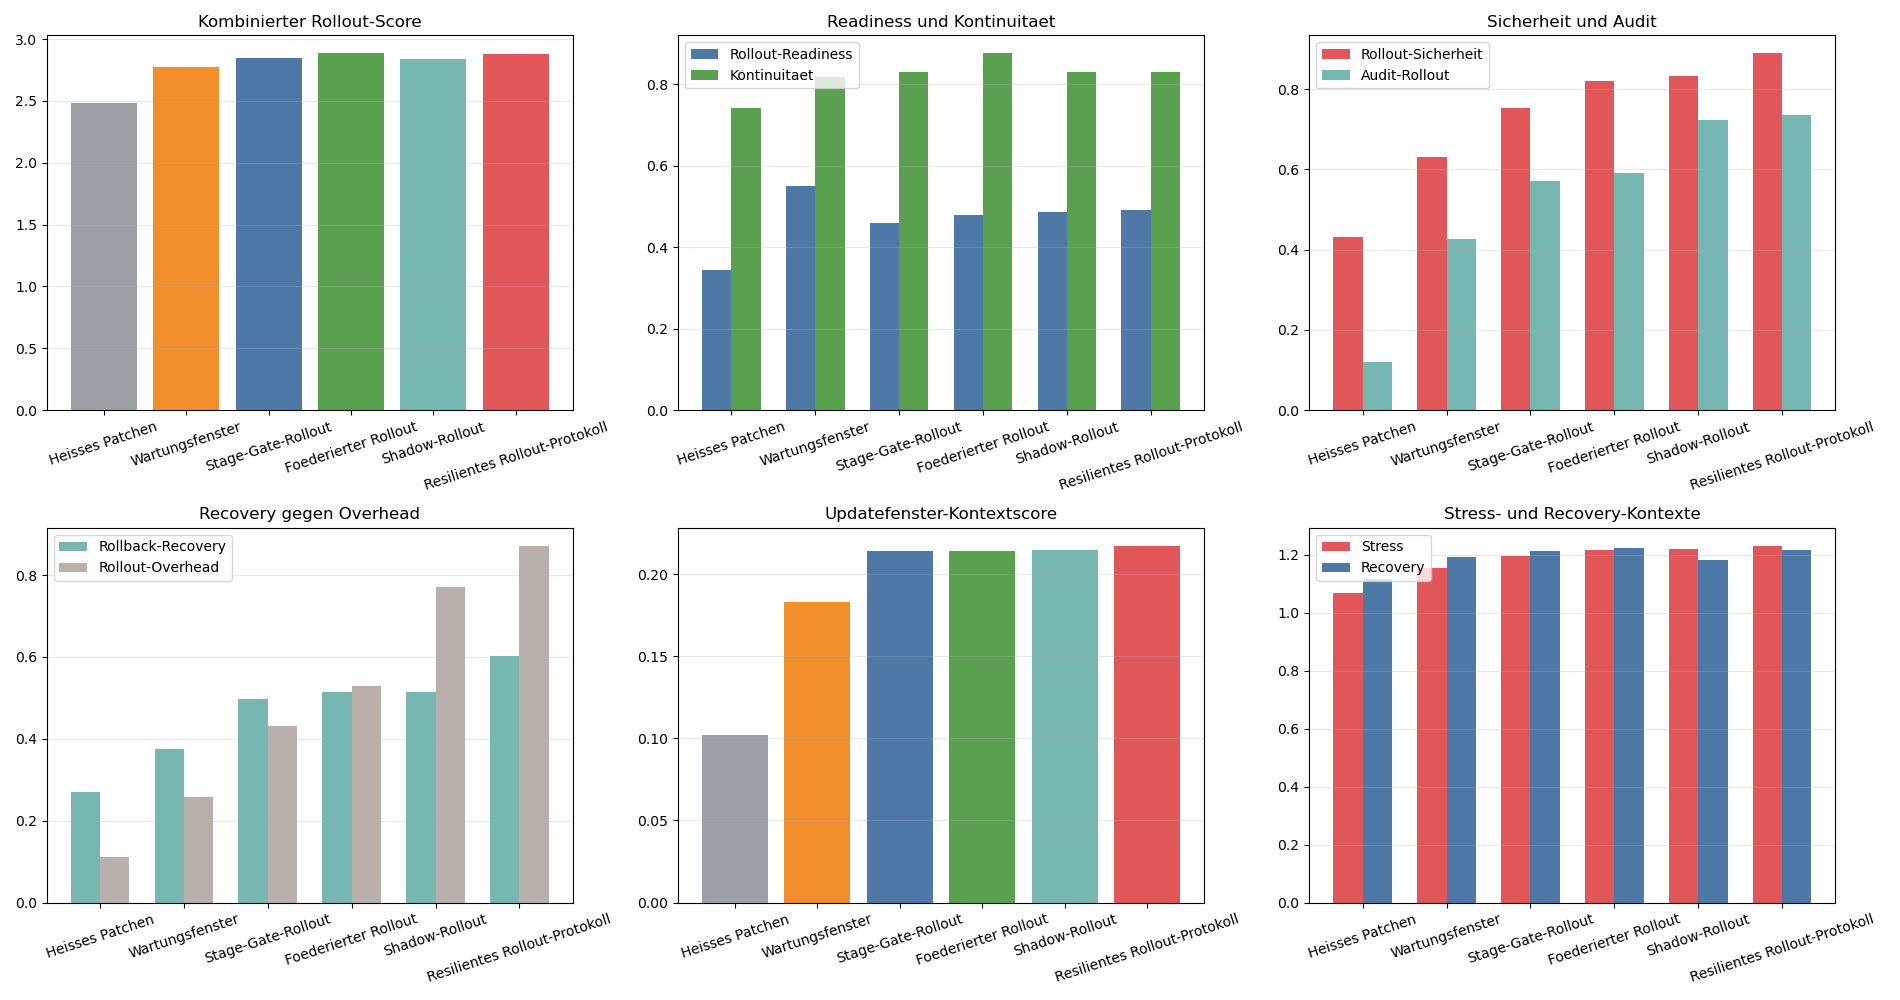
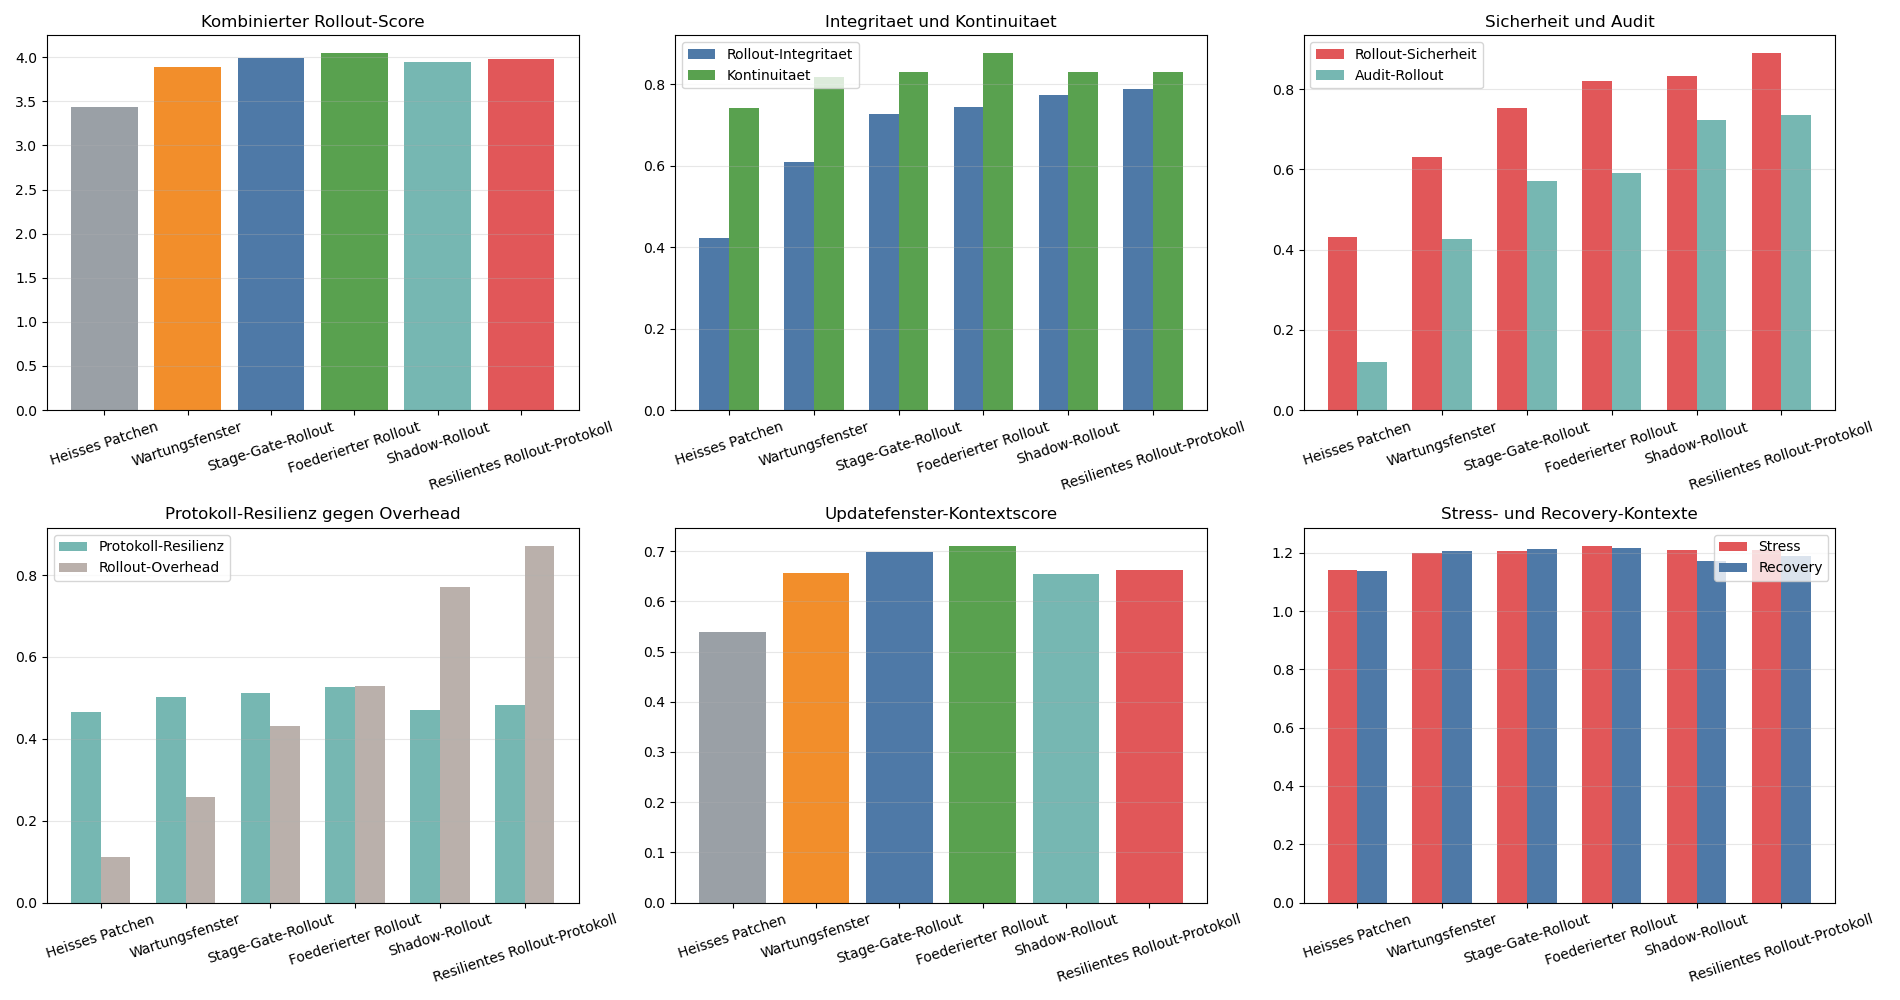
Refine rollout protocol resilience metrics

diff --git a/schwarm_rollout_protokolle.py b/schwarm_rollout_protokolle.py
@@ -418,6 +418,28 @@ def rollout_metrics(config, result, params, profile, kontext):
             ]
         )
     )
+    rollout_integrity = clamp01(
+        mittelwert(
+            [
+                rollout_readiness,
+                rollout_safety,
+                audit_rollout,
+                1.0 - workflow.get('misinformation_corruption_mean', 0.0),
+                traceability,
+            ]
+        )
+    )
+    protocol_resilience = clamp01(
+        mittelwert(
+            [
+                continuity_strength,
+                rollback_recovery,
+                rollout_safety,
+                workflow.get('sync_strength_mean', 0.0),
+                1.0 - rollout_overhead,
+            ]
+        )
+    )
 
     return {
         'completion_rate': workflow.get('completion_rate', 0.0),
@@ -439,6 +461,8 @@ def rollout_metrics(config, result, params, profile, kontext):
         'audit_rollout': audit_rollout,
         'continuity_strength': continuity_strength,
         'rollback_recovery': rollback_recovery,
+        'rollout_integrity': rollout_integrity,
+        'protocol_resilience': protocol_resilience,
         'rollout_overhead': rollout_overhead,
         'route_exposure': exposure,
     }
@@ -491,35 +515,34 @@ def context_score(kontext_name, result, agent_count):
 
     if kontext_name == 'patching':
         return (
-            metrics['completion_rate']
-            + 0.18 * metrics['rollout_readiness']
+            metrics['rollout_integrity']
+            + 0.18 * metrics['protocol_resilience']
             + 0.14 * metrics['continuity_strength']
             + 0.08 * metrics['audit_rollout']
             - 0.10 * metrics['rollout_overhead']
         )
     if kontext_name == 'window':
         return (
-            metrics['completion_rate']
-            + 0.18 * metrics['rollout_safety']
-            + 0.14 * metrics['audit_rollout']
-            + 0.10 * metrics['rollout_readiness']
+            metrics['protocol_resilience']
+            + 0.18 * metrics['rollout_integrity']
+            + 0.14 * metrics['rollout_safety']
+            + 0.10 * metrics['audit_rollout']
             - 0.10 * metrics['rollout_overhead']
         )
     if kontext_name == 'stress':
         return (
             base
-            + 0.18 * metrics['rollout_safety']
-            + 0.14 * metrics['audit_rollout']
-            + 0.10 * metrics['rollback_recovery']
-            - 0.12 * metrics['corruption_mean']
+            + 0.18 * metrics['rollout_integrity']
+            + 0.14 * metrics['protocol_resilience']
+            + 0.10 * metrics['rollout_safety']
             - 0.10 * metrics['route_exposure']
             - 0.08 * metrics['rollout_overhead']
         )
     return (
         base
-        + 0.20 * metrics['rollback_recovery']
-        + 0.12 * metrics['rollout_safety']
-        + 0.08 * metrics['continuity_strength']
+        + 0.20 * metrics['protocol_resilience']
+        + 0.12 * metrics['rollout_integrity']
+        + 0.08 * metrics['rollout_safety']
         - 0.12 * failed_share
         - 0.08 * metrics['rollout_overhead']
     )
@@ -533,6 +556,8 @@ def summarize_runs(runs, profile, context_list, agent_count):
         'audit_rollout': {},
         'continuity_strength': {},
         'rollback_recovery': {},
+        'rollout_integrity': {},
+        'protocol_resilience': {},
         'rollout_overhead': {},
         'route_exposure': {},
     }
@@ -587,9 +612,9 @@ def main():
         summaries.append(summary)
         print(
             f"{summary['label']:<30} Score={summary['combined_score']:+.3f} | "
-            f"Readiness={summary['rollout_readiness']['patching']:.2f} | "
-            f"Audit={summary['audit_rollout']['window']:.2f} | "
-            f"Recovery={summary['rollback_recovery']['recovery']:.2f}"
+            f"Integritaet={summary['rollout_integrity']['stress']:.2f} | "
+            f"Protokoll-Resilienz={summary['protocol_resilience']['recovery']:.2f} | "
+            f"Audit={summary['audit_rollout']['window']:.2f}"
         )
 
     best = max(summaries, key=lambda item: item['combined_score'])
@@ -601,9 +626,9 @@ def main():
         f"Delta zu Heisses Patchen {best['combined_score'] - baseline['combined_score']:+.3f}"
     )
     print(
-        f"Readiness {best['rollout_readiness']['patching']:.2f}, "
+        f"Integritaet {best['rollout_integrity']['stress']:.2f}, "
         f"Audit {best['audit_rollout']['window']:.2f}, "
-        f"Recovery {best['rollback_recovery']['recovery']:.2f}"
+        f"Protokoll-Resilienz {best['protocol_resilience']['recovery']:.2f}"
     )
 
     labels = [item['label'] for item in summaries]
@@ -621,9 +646,9 @@ def main():
 
     axes[0, 1].bar(
         x - width / 2,
-        [item['rollout_readiness']['patching'] for item in summaries],
+        [item['rollout_integrity']['stress'] for item in summaries],
         width,
-        label='Rollout-Readiness',
+        label='Rollout-Integritaet',
         color='#4e79a7',
     )
     axes[0, 1].bar(
@@ -633,7 +658,7 @@ def main():
         label='Kontinuitaet',
         color='#59a14f',
     )
-    axes[0, 1].set_title('Readiness und Kontinuitaet')
+    axes[0, 1].set_title('Integritaet und Kontinuitaet')
     axes[0, 1].set_xticks(x)
     axes[0, 1].set_xticklabels(labels, rotation=18)
     axes[0, 1].legend()
@@ -661,9 +686,9 @@ def main():
 
     axes[1, 0].bar(
         x - width / 2,
-        [item['rollback_recovery']['recovery'] for item in summaries],
+        [item['protocol_resilience']['recovery'] for item in summaries],
         width,
-        label='Rollback-Recovery',
+        label='Protokoll-Resilienz',
         color='#76b7b2',
     )
     axes[1, 0].bar(
@@ -673,7 +698,7 @@ def main():
         label='Rollout-Overhead',
         color='#bab0ab',
     )
-    axes[1, 0].set_title('Recovery gegen Overhead')
+    axes[1, 0].set_title('Protokoll-Resilienz gegen Overhead')
     axes[1, 0].set_xticks(x)
     axes[1, 0].set_xticklabels(labels, rotation=18)
     axes[1, 0].legend()
